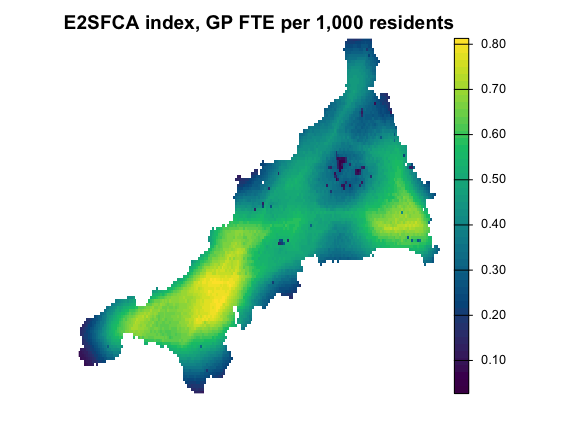
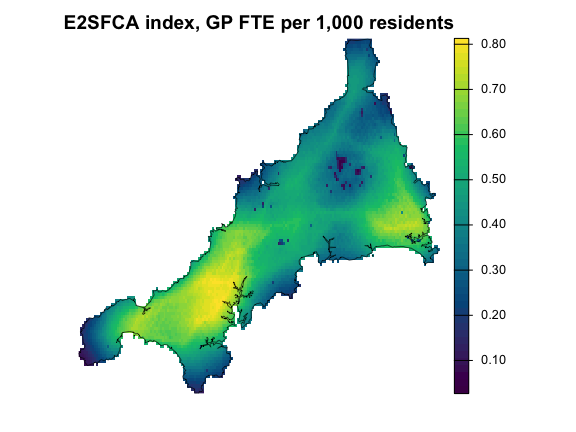
Draw the Cornwall outline on the maps
Raster maps get the mainland outline from the union of the small areas (the Isles of Scilly too on the data page), multi-panel maps in every panel; small-area maps get the outline as a top layer.

diff --git a/README.md b/README.md
@@ -68,12 +68,20 @@ grid_data <- prep_data(pop, gp, travel_grid, id_col = "practice", supply_cols = 
 # The E2SFCA index with a Gaussian decay of travel scale 10 minutes
 fca <- spax(grid_data, spec_e2sfca(decay = decay_gaussian(sigma = 10)))
 
+# Mainland Cornwall's outline, in the grid's longitude and latitude
+outline <- cornwall_lsoa |>
+  filter(!scilly) |>
+  st_union() |>
+  st_transform(crs(pop)) |>
+  vect()
+
 plot(
   1000 * fca$accessibility,
   axes = FALSE,
   col = hcl.colors(50, "viridis"),
   main = "E2SFCA index, GP FTE per 1,000 residents"
 )
+lines(outline, lwd = 0.6)
 ```
 
 <img src="man/figures/README-fca-1.png" alt="Raster map of the E2SFCA index for mainland Cornwall in GP FTE per 1,000 residents; values are highest in the west between Redruth, Truro and Falmouth and lowest on Bodmin Moor and at the tips of the Land's End and Lizard peninsulas."  />
